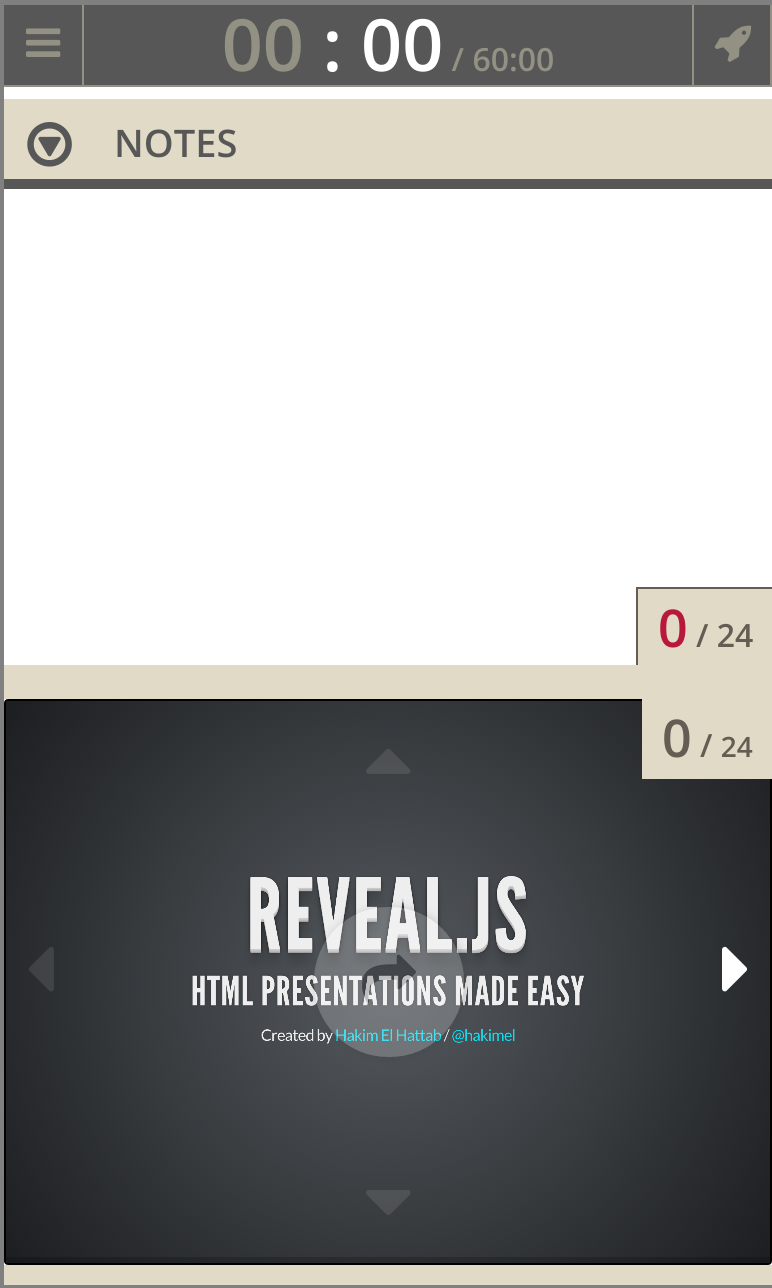
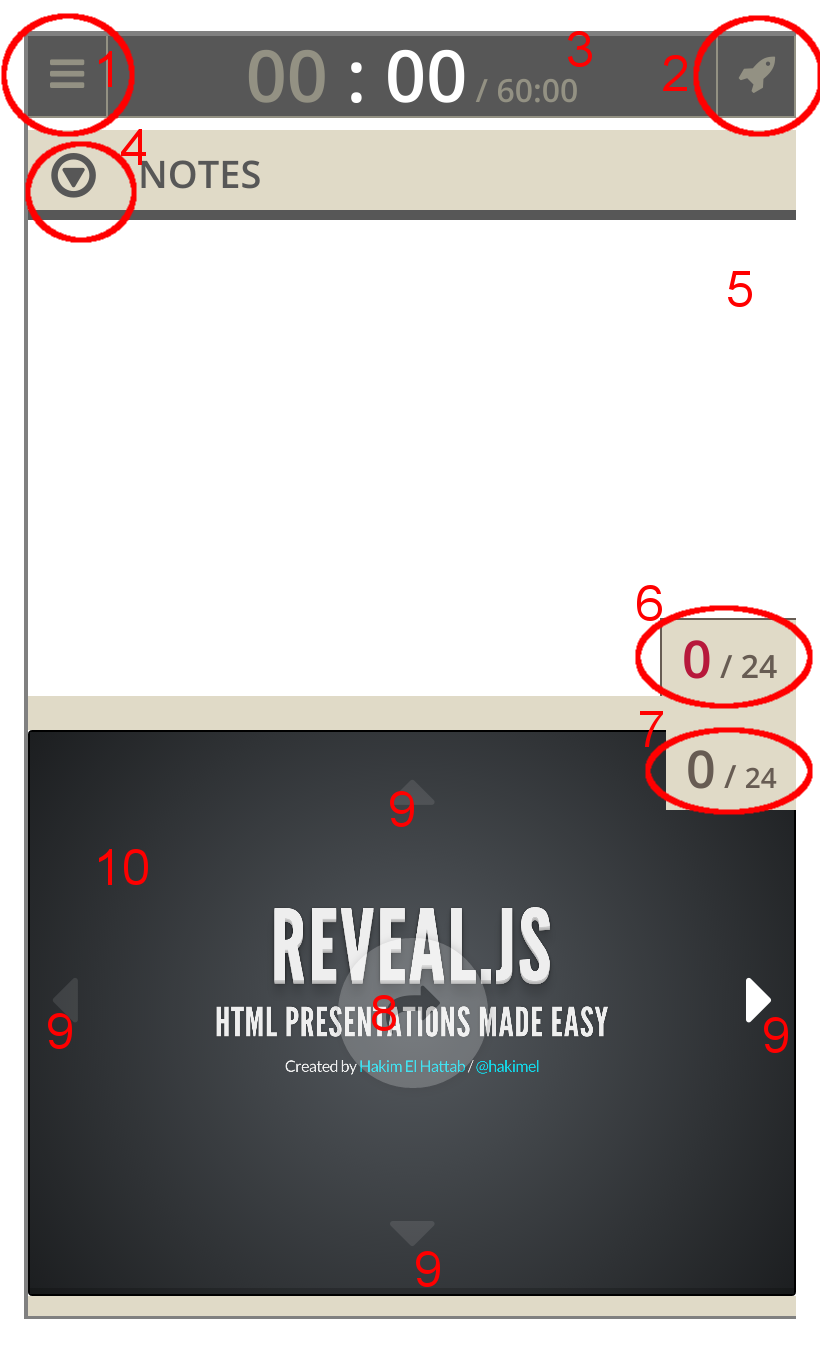
update user guide

diff --git a/partials/guide.html b/partials/guide.html
@@ -36,7 +36,7 @@
   <!-- Initializer -->
   <script>
     Flatdoc.run({
-      fetcher: Flatdoc.file('README.md')
+      fetcher: Flatdoc.file('/assets/md/guide.md')
     });
   </script>
 </head>
@@ -48,8 +48,6 @@
       <ul>
         <li><a href='https://github.com/VinsiInnovation/revealjs-sockets-notes'>View on GitHub</a></li>
         <li><a href='https://github.com/VinsiInnovation/revealjs-sockets-notes/issues'>Issues</a></li>
-        <li><a href='/partials/guide.html'>User Guide</a></li>
-        <li><a href='/partials/dev-guide.html'>Developper Guide</a></li>
       </ul>
     </div>
     <div class='right'>

diff --git a/partials/dev-guide.html b/partials/dev-guide.html
@@ -36,7 +36,7 @@
   <!-- Initializer -->
   <script>
     Flatdoc.run({
-      fetcher: Flatdoc.file('README.md')
+      fetcher: Flatdoc.file('/assets/md/dev-guide.md')
     });
   </script>
 </head>

diff --git a/assets/md/dev-guide.md b/assets/md/dev-guide.md
@@ -1,0 +1,98 @@
+revealjs-sockets-notes
+======================
+
+Reveal Sockets plugin for speakers that offer a remote control of the presentation from your mobile located in the same network loop.
+
+The basic features ares : 
+
+* Remote control of presentation, you could navigate throught your presentation on mobile and validate the slide to show it on your presentation screen.
+* You have access to the notes of the current slide
+* You could configure a timer if your presentation need to respect a timing.
+* The remote provides also some plugins to enhance the speaker experiences. See after for more information about the plugins
+
+
+# Require for installation
+
+This plugin use : 
+
+ * NodeJS
+ 
+
+1. For NodeJS you have to install [node.js](http://nodejs.org/download/). Don't forget to select to add node to the path ! 
+
+
+**It is important that you have the right to write on the directory where the reveal presentation is because the start of the server will write some files on your File System.**
+
+# Use the build version
+
+## Require for build
+
+The build is based on those tools
+
+ * Grunt
+ * Bower (and implicitly git)
+
+1. For Grunt : just execute ```npm install -g grunt-cli``` 
+2. For bower : just execute ```npm install -g bower```
+
+If you are behind a proxy, you have to configure npm to go throught proxy [npm behind proxy](http://jjasonclark.com/how-to-setup-node-behind-web-proxy) and for bower, you have to set HTTP\_PROXY and HTTPS\_PROXY as env var and you might have to specify to use https over git protocol : [https://coderwall.com/p/sitezg/](https://coderwall.com/p/sitezg/)
+
+## Install
+
+1. Download of clone the repository
+2. Copy this directory into : 'YourRevealPresentation/plugin/sockets-notes'
+
+## Build, the project
+
+A build.bat or build.sh was write to build the project to a dist directory
+
+1. Go to 'YourRevealPresentation/plugin/sockets-notes'
+2. run 'build.bat' or 'build.sh'
+
+This should create a "dist" directory with the project compile and it has normally download all the necessary dependancies
+
+
+### In the presentation
+
+You have to add thoses line in your html
+
+1. ```{ src: '{$REVEAL_HOME_DIRECTORY}/plugin/sockets-notes/dist/reveal_plugin/js/notes-client.js', async: true, callback: function() { RevealClientNotes.init({}); } }``` in the dependancies of Reveal
+2. the object to pass to init method has thoses parameters
+ 1. controlsColor : The color of controls in remote (default is 'white')
+3. ```<script src="/socket.io/socket.io.js"></script>``` in the import section of your javascripts
+4. You have to check that markdown plugin is present in your presentation
+5. You have to check that you have the file lib/js/head.min.js in your presentation
+
+According to the number of plugins you want to use with the remote control, add as many lines as you want somes plugins in the reveal dependancies : 
+```{ src: '{$REVEAL\_HOME\_DIRECTORY}/plugin/sockets-notes/dist/reveal_plugin/plugins/*{thePluginYouWant}*.js', async: true}```
+
+Here is the list of plugin and their paths (according to reveal\_plugins/plugins directory) : 
+
+ * ```sws-plugin-video-play.js``` : Could play or pause a html5 video tag in the current slide show on screen
+ * ```sws-plugin-audio-play.js``` : Could play or pause a html5 audio tag in the current slide show on screen
+ * ```sws-plugin-remote-pointer.js``` : Allow you to use your finger as laser pointer on the client presentation.
+ * ```sws-plugin-sensor-pointer.js``` : Allow you to use your phone as laser pointer on the client presentation.
+ *  More to come soon
+
+### Use it
+
+1. Start the server from your revealPresentation folder root with ```node plugin/sockets-notes/dist/server/server.js -r REVEAL_DIRECTORY_PATH``` (The REVEAL\_DIRECTORY\_PATH is corresponding to the relative path according to the curent directory where the reveal presentation with the plugin is present (A directory where plugin/sockets-notes is present)). If your reveal presentation is on the root of the server (I.E. the plugin directory is aside of the index.html) juste start the server with ```node plugin/sockets-notes/dist/server/server.js```
+2. Launch your reveal presentation on http://localhost:8080/{youRevealPresentation}.html
+2. Tap on your keyboard CRTL+Q
+3. Select the right network and click on it
+4. Scan the QrCode with your smartphone
+5. Enjoy ! 
+
+
+**You could user node ```{PATH_TO_SERVER_JS}/server.js -h``` for getting the available commands**
+
+# Use the development version
+
+If you want to work with the source, you will have to install [Compass](http://compass-style.org/install/). And you have to install the sourcemaps for compass : ```gem install compass-sourcemaps --pre``` and ```gem install compass --pre```
+
+The build task use previously don't use compass, so if you want to build a part of the project, you have to run ```grunt release``` instead of ```grunt release_build``` (cf [https://github.com/chriseppstein/compass/issues/1108](https://github.com/chriseppstein/compass/issues/1108))
+
+When you will work with the server, don't forget to specify that your are in development mode : ```node plugin/sockets-notes/dist/server/server.js -d true```
+
+
+

diff --git a/assets/md/guide.md b/assets/md/guide.md
@@ -1,0 +1,27 @@
+## User Guide
+
+### UI
+
+<img src="/assets/images/remote.png" width="400px">
+
+<br>
+
+<p>
+Here is how to use the remote
+<br>
+1 Access to menu<br>
+2 Access to plugins<br>
+3 Timer of presentation<br>
+4 Expand the note to fullScreen mode<br>
+5 Notes area<br>
+6 Current slide index<br>
+7 Preview slide index<br>
+8 Show the slide in preview Area <br>
+9 Controls to navigate in presentation (only in preview area)<br>
+10 Preview Area<br>
+</p>
+
+<pre>
+<img src="/assets/images/remote_howto.png" width="400px">
+</pre>
+

diff --git a/README.md b/README.md
@@ -143,12 +143,3 @@ Here is the list of plugin and their paths (according to reveal\_plugins/plugins
  * ```sws-plugin-sensor-pointer.js``` : Allow you to use your phone as laser pointer on the client presentation.
  *  More to come soon
  
-## User Guide
-
-### UI
-
-Here is how to use the remote
-
-<pre>
-<img src="/assets/images/remote.png" width="400px">
-</pre>
